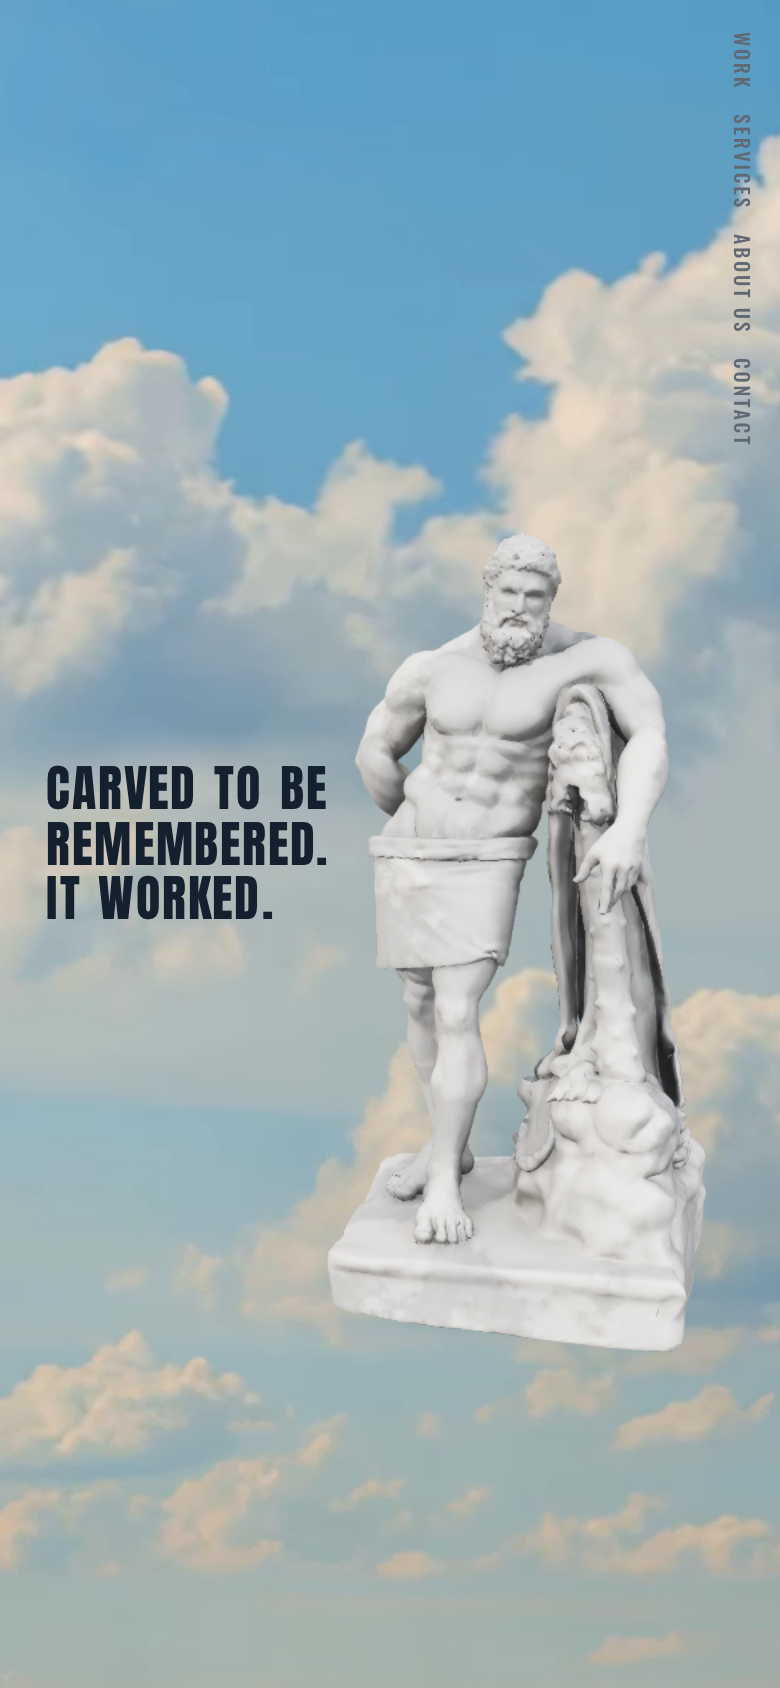
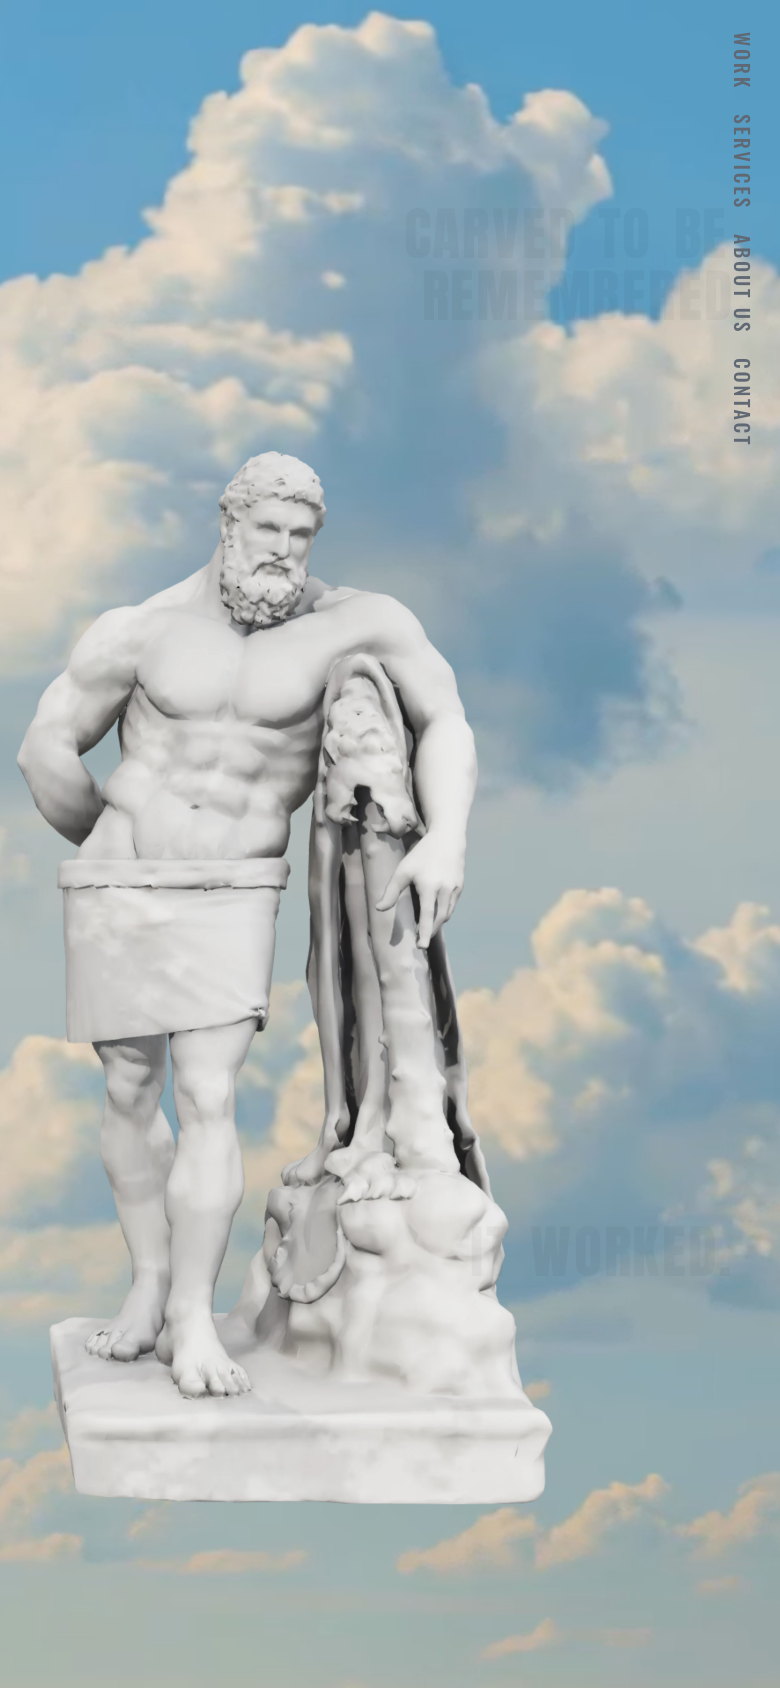
Hero copy solid black; Carved to be remembered on the left, It worked on the right
Claude-Session: https://claude.ai/code/session_01NAdPXLUXCGhh82qBsMYyAh

diff --git a/src/app/globals.css b/src/app/globals.css
@@ -187,7 +187,7 @@ body {
   font-size: clamp(3.6rem, 13.6vw, 19rem);
   line-height: 0.82;
   letter-spacing: -0.015em;
-  color: var(--ink);
+  color: #000;
 }
 .copy--wordmark .word {
   position: absolute;
@@ -285,7 +285,7 @@ body {
   word-spacing: 0.08em;
   font-size: clamp(var(--step-2), 2.3vw, var(--step-4));
   line-height: 1.1;
-  color: var(--ink);
+  color: #000;
   white-space: normal;
   width: min(46vw, 34ch);
   --rise: 0;
@@ -295,13 +295,13 @@ body {
 .copy--line .l { display: inline-block; will-change: transform, opacity, filter; }
 .copy--left { left: clamp(1.25rem, 6vw, 6rem); top: 50%; transform: translateY(-50%); }
 .copy--left-a { left: clamp(1.25rem, 6vw, 6rem); top: 34%; width: min(30vw, 22ch); }
-.copy--left-b { left: clamp(1.25rem, 6vw, 6rem); top: 56%; width: min(30vw, 22ch); color: var(--ink-soft); }
+.copy--left-b { left: clamp(1.25rem, 6vw, 6rem); top: 56%; width: min(30vw, 22ch); }
 .copy--top-left { left: clamp(1.25rem, 6vw, 6rem); top: 14%; }
 .copy--tight { width: min(38vw, 24ch); font-size: clamp(var(--step-2), 2.6vw, var(--step-5)); line-height: 1.3; letter-spacing: 0.07em; }
 .copy--right { right: clamp(1.25rem, 6vw, 6rem); top: 50%; text-align: right; width: min(46vw, 40ch); transform: translateY(-50%); }
 .copy--bottom { left: 50%; bottom: 5%; text-align: center; transform: translateX(-50%); width: min(70vw, 52ch); }
 .copy--stack-0 { left: clamp(1.25rem, 6vw, 6rem); top: 16%; }
-.copy--stack-1 { left: clamp(1.25rem, 6vw, 6rem); top: 28%; color: var(--ink-soft); }
+.copy--stack-1 { left: clamp(1.25rem, 6vw, 6rem); top: 28%; }
 .copy--stack-2 { left: clamp(1.25rem, 6vw, 6rem); top: 38%; font-size: clamp(var(--step-3), 3.4vw, var(--step-6)); }
 .copy--stack-3 { left: clamp(1.25rem, 6vw, 6rem); top: 48%; font-size: clamp(var(--step-3), 3.4vw, var(--step-6)); }
 .copy--stack-4 { left: clamp(1.25rem, 6vw, 6rem); top: 58%; font-size: clamp(var(--step-3), 3.4vw, var(--step-6)); }
@@ -1131,6 +1131,7 @@ footer.section {
   /* the statue has the left, so the first three lines take the right */
   .copy--left { left: auto; right: 1rem; top: 12%; transform: none; text-align: right; width: min(66vw, 26ch); }
   /* "people have always wanted" top left, "outlives" high on the right, above the statue's dark cloth */
+  .copy-key--worked { top: auto; bottom: auto; top: 24%; transform: none; width: min(50vw, 20ch); }
   .copy--left-a { left: 1rem; right: auto; top: 9%; text-align: left; width: min(64vw, 24ch); }
   .copy--left-b { left: auto; right: 1rem; top: 24%; text-align: right; width: min(44vw, 18ch); color: var(--ink); }
   .copy--tight { width: min(76vw, 24ch); top: 9%; font-size: clamp(1.6rem, 7.4vw, 2.5rem); line-height: 1.16; letter-spacing: 0.05em; }

diff --git a/src/hero/lines.ts b/src/hero/lines.ts
@@ -7,7 +7,8 @@ export const SCROLL_HINT = "Scroll";
 
 export const LINES: Line[] = [
   // over the statue, once the wordmark has gone
-  { key: "carved", text: "Carved to be remembered.\nIt worked.", place: "left", in: [0.13, 0.18], out: [0.24, 0.27] },
+  { key: "carved", text: "Carved to be remembered.", place: "left", in: [0.13, 0.18], out: [0.24, 0.27] },
+  { key: "worked", text: "It worked.", place: "right", in: [0.185, 0.21], out: [0.24, 0.27] },
   // the hold: the first half, then the second fades in underneath; both go as he moves to the middle
   { key: "people", text: "People have always wanted the same thing:", place: "left-a", in: [0.28, 0.32], out: [0.39, 0.42] },
   { key: "outlives", text: "to build something that outlives them and carries their name.", place: "left-b", in: [0.32, 0.36], out: [0.39, 0.42] },
